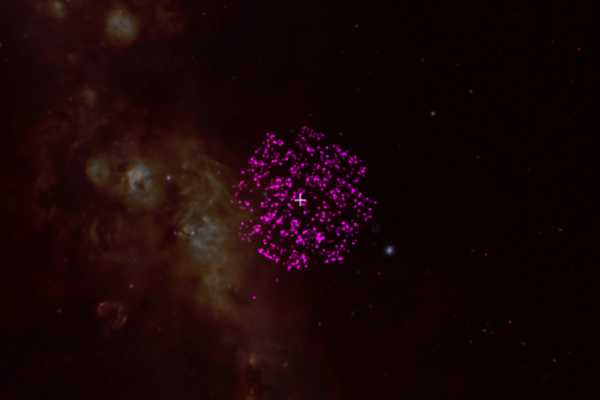
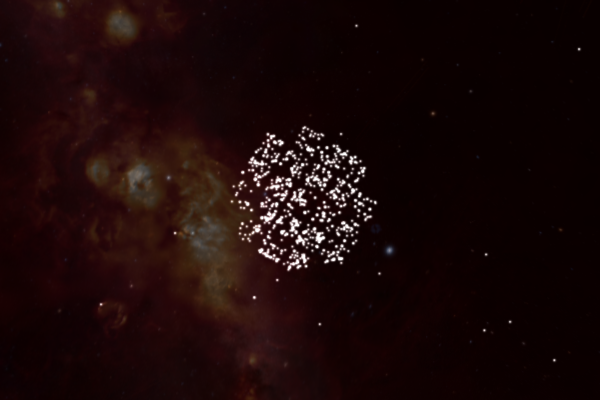
More improvements to docs

Changed region(s): [[0.39, 0.3, 0.63, 0.69]]

diff --git a/pywwt/core.py b/pywwt/core.py
@@ -35,7 +35,7 @@ class BaseWWTWidget(HasTraits):
         self._available_layers = get_imagery_layers(DEFAULT_SURVEYS_URL)
         self.imagery = ImageryLayers(self._available_layers)
         self.solar_system = SolarSystem(self)
-        self.instruments = Instruments()
+        self._instruments = Instruments()
         self._available_modes = ['sky', 'planet', 'solar_system',
                                  'milky_way', 'universe', 'panorama']
         self.current_mode = 'sky'
@@ -457,6 +457,13 @@ class BaseWWTWidget(HasTraits):
             line.add_point(points)
         return line
 
+    @property
+    def instruments(self):
+        """
+        Instruments available for use in `add_fov`
+        """
+        return self._instruments
+
     def add_fov(self, telescope, center=None, rotate=0*u.rad, **kwargs):
         """
         Add a telescope's field of view (FOV) to the current view.
@@ -464,14 +471,14 @@ class BaseWWTWidget(HasTraits):
         Parameters
         ----------
         telescope : `str`
-            The telescope whose field of view will be displayed. Be sure to
-            use the `wwt.instruments` object to see and select from the
-            preset list of instruments available in pyWWT.
+            The telescope whose field of view will be displayed. Be sure to use
+            the ``instruments`` attribute to see and select from the preset list
+            of instruments available in pyWWT.
         center : `~astropy.units.Quantity`, optional
             The coordinates of desired center of the FOV. If blank,
             defaults to the center of the current view.
         rotate : `~astropy.units.Quantity`, optional
-            The amount to rotate the FOV. Both radians and degrees are 
+            The amount to rotate the FOV. Both radians and degrees are
             accepted. If blank, defaults to 0 radians (no rotation).
         kwargs
             Optional arguments that allow corresponding Polygon or

diff --git a/pywwt/annotation.py b/pywwt/annotation.py
@@ -11,7 +11,7 @@ from .traits import (Color, ColorWithOpacity, Bool,
 # The WWT web control API is described here:
 # https://worldwidetelescope.gitbooks.io/worldwide-telescope-web-control-script-reference/content/
 
-__all__ = ['Annotation', 'Circle', 'Polygon', 'Line']
+__all__ = ['Annotation', 'Circle', 'Polygon', 'Line', 'FieldOfView']
 
 
 class Annotation(HasTraits):
@@ -260,11 +260,11 @@ class Line(Annotation):
 
 class FieldOfView():
     """
-    A collection of polygon annotations. Takes the name of a pre-loaded 
+    A collection of polygon annotations. Takes the name of a pre-loaded
     telescope and displays its field of view.
     """
     # a more efficient method than CircleCollection of changing trait values?
-    
+
     def __init__(self, parent, telescope, center, rot, **kwargs):
         # make sure rot is astropy quantity in proper units for self._rotate()
         try:
@@ -278,11 +278,11 @@ class FieldOfView():
         self.parent = parent
         self._available = self.parent.instruments.available
         self._entry = self.parent.instruments.entry
-        
+
         # list of IDs of annotations created in this FieldofView instance
         self.active = []
         self._gen_fov(telescope, center, rot, **kwargs)
-        
+
     def _gen_fov(self, telescope, center, rot, **kwargs):
         # test if telescope is available
         if telescope not in self._available:
@@ -307,7 +307,7 @@ class FieldOfView():
             # rotate points if necessary
             if position == 'relative' and rot != 0:
                 ras, decs = self._rotate(ras, decs, rot)
-                
+
             # translate points to user-specified location if relative
             if position == 'relative':
                 center_ra = center.ra.to(u.deg).value

diff --git a/docs/screenshots_layers.py b/docs/screenshots_layers.py
@@ -13,14 +13,13 @@ layer = wwt.layers.add_data_layer(table=table, frame='Sky',
                                   lon_att='ra', lat_att='dec', lon_unit='deg')
 
 layer.size_scale = 50
-layer.color = 'purple'
 
 kepler = SkyCoord(76.532562, 13.289502, unit='deg', frame='galactic')
 wwt.center_on_coordinates(kepler, fov=40 * u.deg)
 
 wwt.wait(3)
 
-wwt.render('data_layers_kepler.png')
+wwt.render('images/data_layers_kepler.png')
 
 layer.remove()
 
@@ -41,7 +40,7 @@ layer = wwt.layers.add_data_layer(table=table, frame='Earth',
 
 wwt.wait(3)
 
-wwt.render('data_layers_earthquakes.png')
+wwt.render('images/data_layers_earthquakes.png')
 
 wwt.wait()
 

diff --git a/docs/layers.rst b/docs/layers.rst
@@ -35,6 +35,7 @@ as the ``wwt`` variable, you can then do::
     ...                           lon_att='ra', lat_att='dec')
 
 .. image:: images/data_layers_kepler.png
+   :align: center
 
 Note that we have specified which columns to use for the right ascension and
 declination.
@@ -59,6 +60,7 @@ We can then add the data layer using::
     ...                                   lon_att='longitude', lat_att='latitude')
 
 .. image:: images/data_layers_earthquakes.png
+   :align: center
 
 Note that ``lon_att`` and ``lat_att`` don't need to be specified in
 ``add_data_layer`` - they can also be set afterwards using e.g.::

diff --git a/docs/fov.rst b/docs/fov.rst
@@ -11,7 +11,7 @@ the James Webb Space Telescope, and larger footprints like the field of the K2
 mission come out of the box and ready to use with pyWWT.
 
 (If you have an instrument you'd like to simulate, you can still use the methods
-from :ref:`foo_bar` to plot it, but please also consider forwarding its
+from :ref:`annotations` to plot it, but please also consider forwarding its
 dimensions and further information to us on GitHub. We are especially interested
 in adding more footprints from other sky surveys.)
 

diff --git a/docs/api.rst b/docs/api.rst
@@ -24,3 +24,7 @@ API Documentation
 .. automodapi:: pywwt.layers
    :no-inheritance-diagram:
    :no-inherited-members:
+
+.. automodapi:: pywwt.instruments
+   :no-inheritance-diagram:
+   :no-inherited-members:
